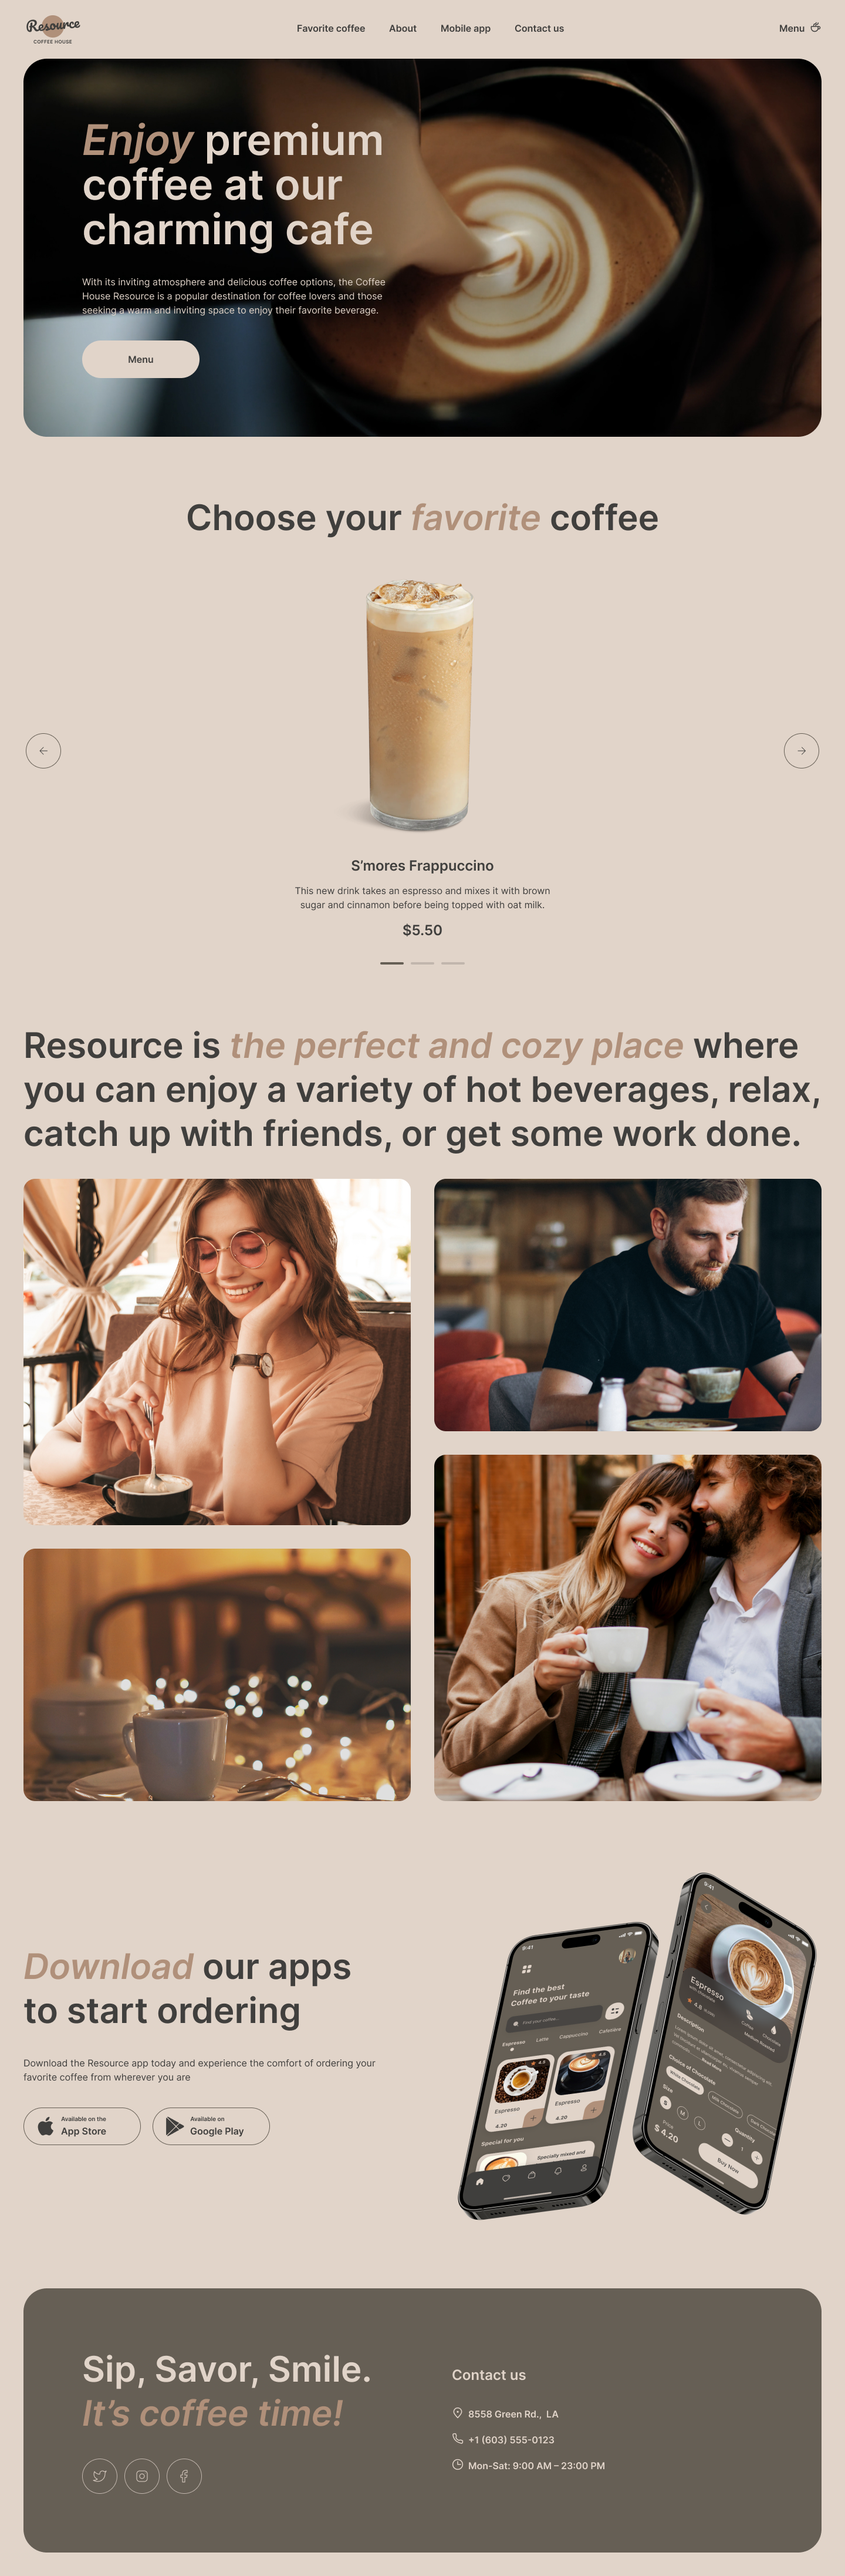
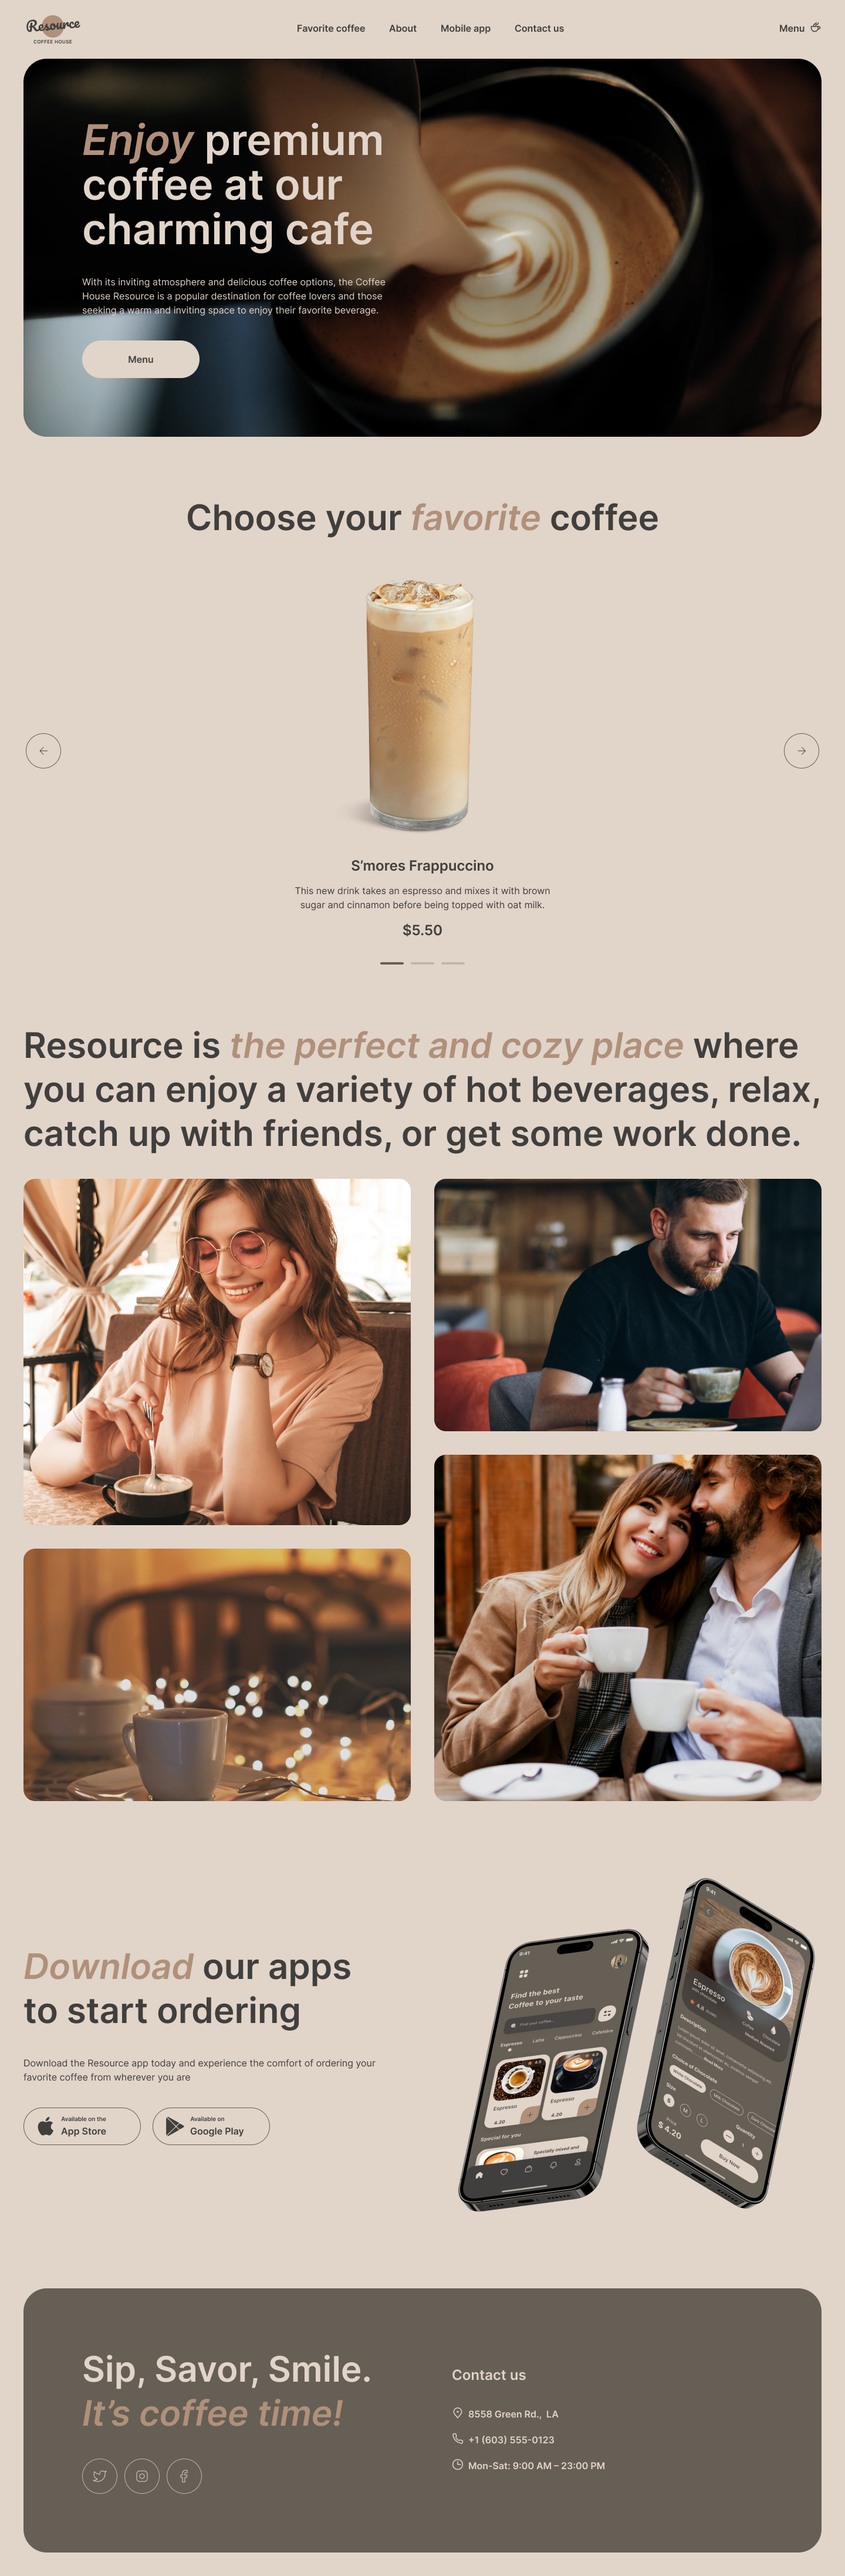
feat: added new section mobileApp, imgs and styles

Changed region(s): [[0.5312, 0.7181, 0.9688, 0.8742]]

diff --git a/coffee-house/index.html b/coffee-house/index.html
@@ -109,6 +109,59 @@
 					</div>
 				</div>
 			</section> <!-- /about -->
+
+			<section class="mobileApp margin-section">
+				<div class="mobileApp__info">
+					<h2 class="mobileApp__title"><i>Download</i> our apps to start ordering</h2>
+					<p class="mobileApp__text">Download the Resource app today and experience the comfort of ordering your favorite coffee from wherever you are</p>
+					<a href="#" class="mobileApp__link">
+						<div class="link__wrapper">
+							<div class="link__icon">
+								<svg xmlns="http://www.w3.org/2000/svg" width="36" height="36" viewBox="0 0 36 36" fill="none">
+									<path
+										d="M26.7073 18.6307C26.6704 14.6324 30.065 12.6872 30.2203 12.5966C28.2977 9.86366 25.3178 9.49026 24.2707 9.46048C21.7679 9.20369 19.3403 10.9206 18.0654 10.9206C16.765 10.9206 14.8017 9.48529 12.6858 9.52747C9.96293 9.56841 7.41566 11.1055 6.0186 13.4923C3.13542 18.359 5.28572 25.5108 8.04802 29.4446C9.42981 31.3712 11.0444 33.5223 13.1578 33.4466C15.2254 33.3635 15.9978 32.1614 18.4929 32.1614C20.9651 32.1614 21.6903 33.4466 23.8457 33.3983C26.0647 33.3635 27.4618 31.463 28.7952 29.519C30.392 27.3108 31.0333 25.1362 31.0588 25.0245C31.0066 25.0071 26.7493 23.4229 26.7073 18.6307Z"
+										fill="#403F3D" />
+									<path
+										d="M22.6357 6.87268C23.7477 5.51675 24.5086 3.67205 24.2974 1.80005C22.6879 1.86952 20.675 2.88554 19.5159 4.21169C18.4903 5.38029 17.5742 7.29571 17.8109 9.097C19.6189 9.2285 21.4753 8.20752 22.6357 6.87268Z"
+										fill="#403F3D" />
+								</svg>
+							</div>
+							<div class="link__text">
+								<span>Available on the</span>
+								<p> App Store</p>
+							</div>
+						</div>
+					</a>
+					<a href="#" class="mobileApp__link">
+						<div class="link__wrapper">
+							<div class="link__icon">
+								<svg xmlns="http://www.w3.org/2000/svg" width="36" height="36" viewBox="0 0 36 36" fill="none">
+									<path
+										d="M3.7558 3.20297C3.39335 3.57289 3.18359 4.14884 3.18359 4.89471V31.4994C3.18359 32.2453 3.39335 32.8212 3.7558 33.1911L3.84525 33.2723L19.1359 18.37V18.0181L3.84525 3.11575L3.7558 3.20297Z"
+										fill="#403F3D" />
+									<path
+										d="M26.0776 23.34L20.9863 18.37V18.0181L26.0837 13.0482L26.1979 13.1128L32.2345 16.4617C33.9573 17.4121 33.9573 18.976 32.2345 19.9324L26.1979 23.2753L26.0776 23.34Z"
+										fill="#403F3D" />
+									<path
+										d="M25.2733 24.2007L20.0617 19.1195L4.68164 34.1166C5.25384 34.7031 6.18695 34.7737 7.24807 34.1873L25.2733 24.2007Z"
+										fill="#403F3D" />
+									<path
+										d="M25.2733 12.1876L7.24807 2.20103C6.18695 1.62058 5.25384 1.69125 4.68164 2.27772L20.0617 17.2688L25.2733 12.1876Z"
+										fill="#403F3D" />
+								</svg>
+							</div>
+							<div class="link__text">
+								<span>Available on</span>
+								<p>Google Play</p>
+							</div>
+						</div>
+
+					</a>
+				</div>
+				<div class="mobileApp__img">
+					<img src="src/img/mobileApp/mobileScreens.png" alt="">
+				</div>
+			</section> <!-- /mobileApp -->
 		</main>
 	</div> <!-- /wrapper -->
 </body>

diff --git a/coffee-house/src/scss/layout/_mobileApp.scss b/coffee-house/src/scss/layout/_mobileApp.scss
@@ -1,0 +1,70 @@
+.mobileApp {
+	display: flex;
+	justify-content: space-between;
+	align-items: center;
+	&__info {
+		width: 630px;
+	}
+
+	&__title {
+		@extend %heading-2;
+		color: $text-darkColor;
+
+		& i {
+			color: $text-accentColor;
+		}
+	}
+
+	&__text {
+		@extend %body-textMedium;
+		color: $text-darkColor;
+		margin: 40px 0;
+	}
+
+	&__link {
+		display: inline-block;
+		width: 200px;
+		border: 1px solid $border-darkColor;
+		border-radius: 100px;
+		margin-right: 20px;
+
+		&:last-child {
+			margin-right: 0;
+		}
+	}
+}
+
+.link__wrapper {
+	display: flex;
+	width: 200px;
+	height: 64px;
+	border-radius: 100px;
+	gap: 8px;
+	align-items: center;
+	padding: 9px 19px;
+	color: $text-darkColor;
+	transition: all 0.7s ease;
+
+	&:hover svg path {
+		fill: $text-lightColor;
+	}
+
+	&:hover {
+		color: $text-lightColor;
+		background-color: $border-darkColor;
+	}
+}
+
+.link__icon svg path {
+	transition: all 0.7s ease;
+}
+
+.link__text {
+	@extend %link-button-style;
+	margin-top: -5px;
+
+	& span {
+		@extend %body-textCaption;
+	}
+}
+

diff --git a/coffee-house/src/scss/main.scss b/coffee-house/src/scss/main.scss
@@ -4,4 +4,5 @@
 @import 'layout/enjoy';
 @import 'layout/favCoffee';
 @import 'layout/about';
+@import 'layout/mobileApp';
 @import 'pages/menu';
